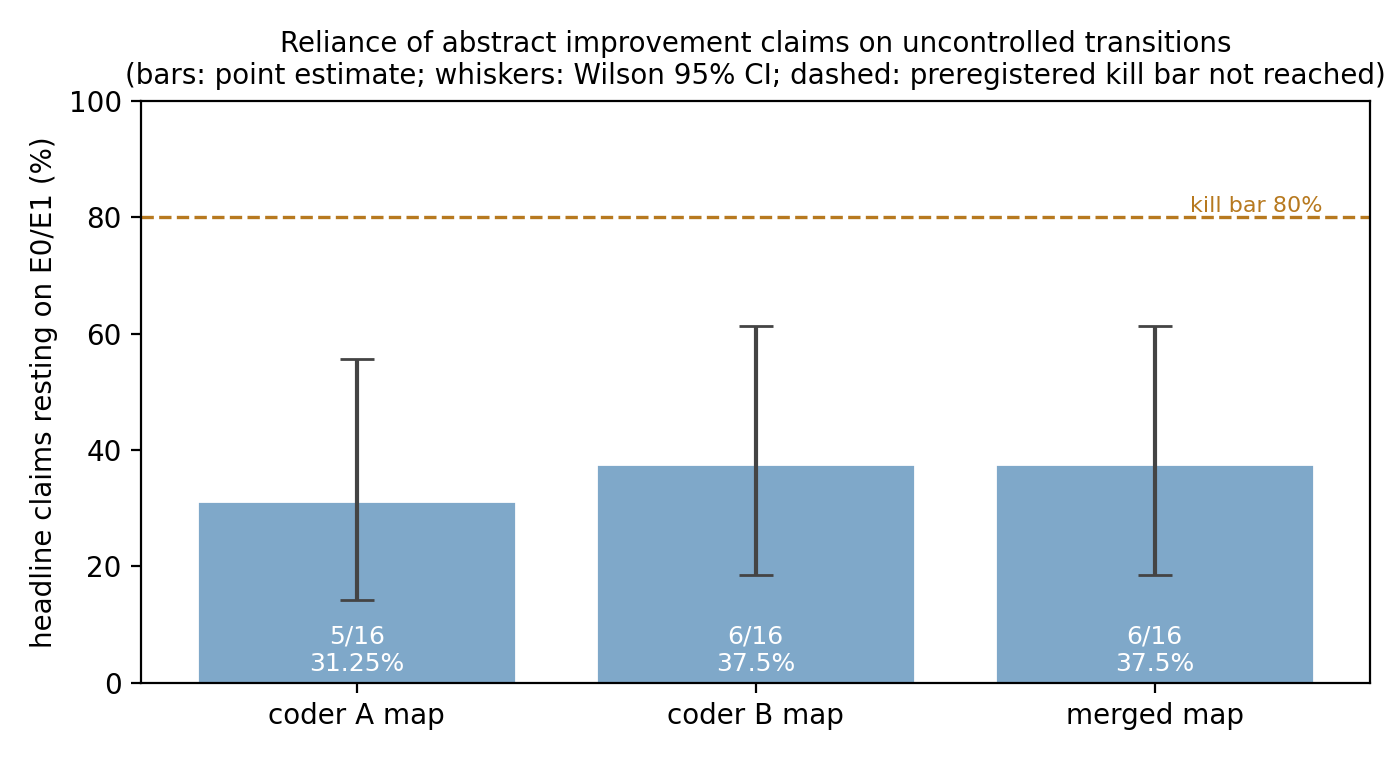
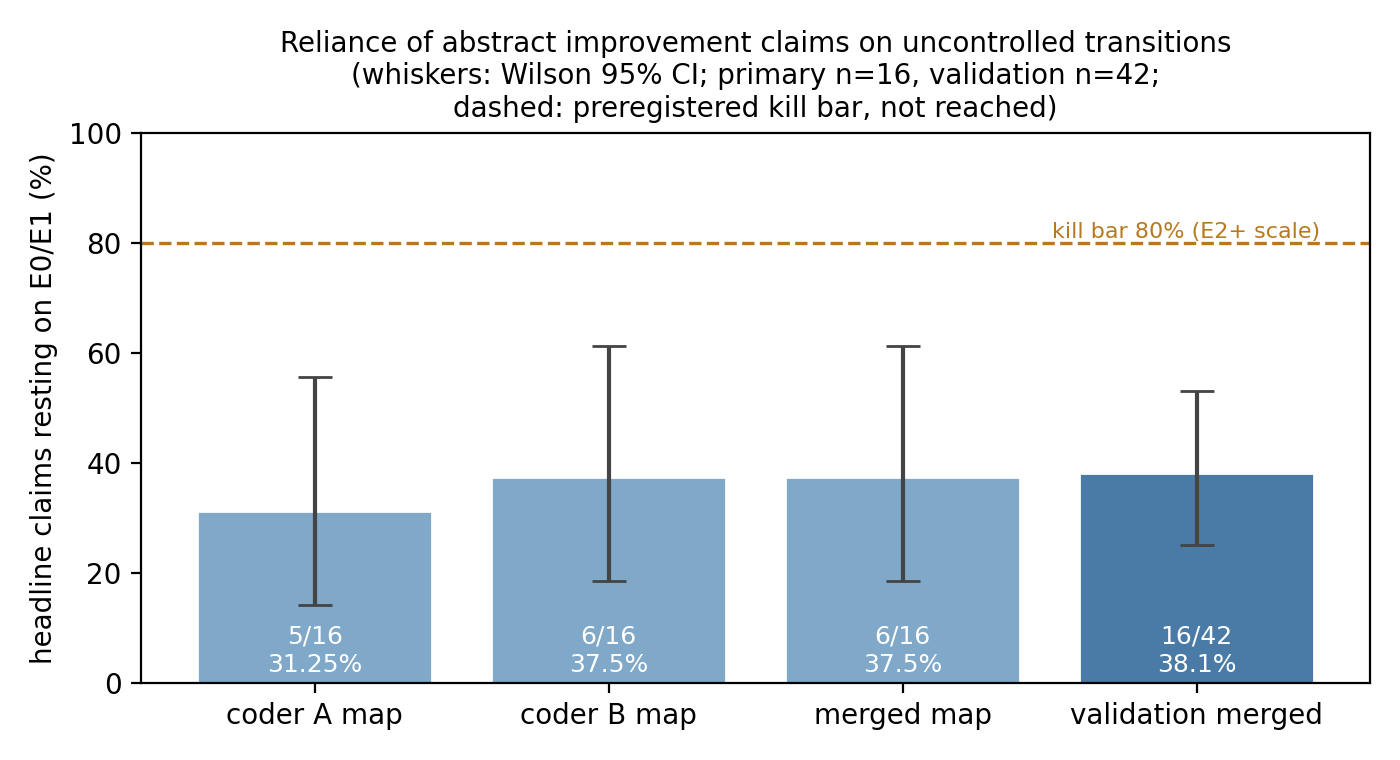
Manuscript finishing: abstract carries validation (146/150 words), fig3 gains validation panel (visual gate PASS after title/precision fixes), fig3 legend n=16/42, stat audit dated amendment, SI Note 3 instrument-chain provenance table filled; checker PASS

diff --git a/field_audit/make_figures.py b/field_audit/make_figures.py
@@ -70,18 +70,23 @@ kA = sum(1 for c, t in _HA.items() if _EA[(c, t)]["in_paper_grade"] in ("E0", "E
 kB = sum(1 for c, t in _HB.items() if _EB[(c, t)]["in_paper_grade"] in ("E0", "E1"))
 _EM = {(r["claim_id"], r["transition"]): r for r in merged}
 kM = sum(1 for c, t in head.items() if _EM[(c, t)]["in_paper_grade"] in ("E0", "E1"))
-ks = [kA, kB, kM]
-vals = [100 * k / 16 for k in ks]
-labels = ["coder A map", "coder B map", "merged map"]
-lohi = [_wilson(k, 16) for k in ks]
+_val = json.load(open(ROOT / "CODING_sheets_validation/statistics_validation_20261025.json"))
+kV, nV = _val["headline_e0_e1"], _val["n_claims"]
+ks = [kA, kB, kM, kV]
+ns = [16, 16, 16, nV]
+vals = [100 * k / n for k, n in zip(ks, ns)]
+labels = ["coder A map", "coder B map", "merged map", "validation merged"]
+lohi = [_wilson(k, n) for k, n in zip(ks, ns)]
 err = [[v - lo for v, (lo, hi) in zip(vals, lohi)], [hi - v for v, (lo, hi) in zip(vals, lohi)]]
-ax.bar(labels, vals, color="#7fa8c9", edgecolor="white", yerr=err, capsize=6, error_kw={"ecolor": "#444"})
+ax.bar(labels, vals, color=["#7fa8c9", "#7fa8c9", "#7fa8c9", "#4a7ba6"], edgecolor="white", yerr=err, capsize=6, error_kw={"ecolor": "#444"})
+def _pct(v):
+    return f"{v:.2f}".rstrip("0").rstrip(".")
 for i, v in enumerate(vals):
-    ax.text(i, 2, f"{ks[i]}/16\n{v:g}%", ha="center", fontsize=9, color="white")
+    ax.text(i, 2, f"{ks[i]}/{ns[i]}\n{_pct(v)}%", ha="center", fontsize=9, color="white")
 ax.axhline(80, color="#b7791f", ls="--", lw=1.2)
-ax.text(2.42, 81, "kill bar 80%", fontsize=8, color="#b7791f", ha="right")
+ax.text(3.42, 81, "kill bar 80% (E2+ scale)", fontsize=8, color="#b7791f", ha="right")
 ax.set_ylabel("headline claims resting on E0/E1 (%)"); ax.set_ylim(0, 100)
-ax.set_title("Reliance of abstract improvement claims on uncontrolled transitions\n(bars: point estimate; whiskers: Wilson 95% CI; dashed: preregistered kill bar not reached)", fontsize=10)
+ax.set_title("Reliance of abstract improvement claims on uncontrolled transitions\n(whiskers: Wilson 95% CI; primary n=16, validation n=42;\ndashed: preregistered kill bar, not reached)", fontsize=10)
 fig.tight_layout(); fig.savefig(OUT / "fig3_headline.png", dpi=200); plt.close(fig)
 
 # Fig 4 - reportability by item

diff --git a/field_audit/MANUSCRIPT/ANALYSIS_DRAFT.md b/field_audit/MANUSCRIPT/ANALYSIS_DRAFT.md
@@ -10,20 +10,20 @@ draft scaffolding and is removed in the submission build (Article: Introduction 
 Figures are specified with their numbers below; production follows the figure contracts. Author
 list, affiliations and correspondence: owner-side.
 
-## Abstract (145 words)
+## Abstract (146 words)
 
 Evidence audits of biological-to-artificial intelligence transfer have concentrated on utility;
-the mechanistic pedigree of a design choice is usually accepted as stated. We decompose a frozen,
-hash-pinned corpus of 16 arXiv-declared mechanism claims into a five-transition inference chain
-and grade, transition by transition, what controlled evidence each paper itself supplies. No
-claim evidences its structure-to-computation transition in-paper (16/16 E0): the biological
-foundation is delegated by citation. The computation-to-correspondence transition - the content
-that makes a system "brain-inspired" - carries suggestive-only support in 12 of 16 claims and
-controlled support in just 2, while utility comparisons are where controlled evidence concentrates (10/16). A
-preregistered kill rule (80 percent controlled headline evidence) was not triggered (62.5
-percent, 95 percent CI 39-82). We deliver an item-level, dual-coded reporting standard for the
-uncontrolled middle of the chain. The corpus is a first-query candidate sample; no prevalence
-claim is made.
+the mechanistic pedigree of a design choice is usually accepted as stated. We decompose frozen,
+hash-pinned corpora of arXiv-declared mechanism claims - 16 primary and 42 validation - into a
+five-transition inference chain and grade, transition by transition, what controlled evidence each
+paper itself supplies. No claim evidences its structure-to-computation transition in-paper (16/16
+and 42/42 E0): the biological foundation is delegated by citation. The computation-to-correspondence
+transition - the content that makes a system "brain-inspired" - carries mostly suggestive-only
+support, while utility comparisons concentrate the controlled evidence. A preregistered kill rule
+(80 percent controlled headline evidence) was not triggered: 62.5 percent (primary) and 61.9
+percent (validation) of claims carry controlled headline evidence. We deliver an item-level,
+dual-coded reporting standard for the uncontrolled middle of the chain. The corpora are
+first-query candidate samples; no prevalence claim is made.
 
 ## Introduction (drafted; number-free by construction)
 
@@ -261,10 +261,12 @@ transition; unit: the claim) whose in-paper evidence grade is E2. T1 (grey) is z
 delegation finding, not by sampling; no interval or test applies.
 
 **Fig 3 | Headline reliance, with uncertainty.** Point estimates of the share of claims whose
-abstract improvement claim rests on an E0/E1 transition (unit: the claim; n = 16 per map: coder
-A's own map, coder B's own map, and the merged map), with two-sided Wilson score 95 percent
-intervals as whiskers. The dashed line is the preregistered kill-rule threshold (80 percent), a
-decision rule, not a significance threshold. No p value is computed anywhere in the figure.
+abstract improvement claim rests on an E0/E1 transition (unit: the claim; n = 16 per map for the
+first three bars - coder A's own map, coder B's own map, and the merged map - and n = 42 for the
+fourth bar, the validation corpus's merged map under the same frozen resolution rule), with
+two-sided Wilson score 95 percent intervals as whiskers. The dashed line is the preregistered
+kill-rule threshold (80 percent, on the complementary E2+ scale), a decision rule, not a
+significance threshold. No p value is computed anywhere in the figure.
 
 **Fig 4 | Reportability by item.** Counts of claims (n = 16 per item; unit: the claim) with
 complete reporting for each of the 11 items, after preregistered adjudication. By protocol no

diff --git a/field_audit/MANUSCRIPT/SUPPLEMENTARY_DRAFT.md b/field_audit/MANUSCRIPT/SUPPLEMENTARY_DRAFT.md
@@ -50,8 +50,30 @@ demonstration, not as evidence about the field.
 
 ## SI Note 3: instrument chain (provenance)
 
-[Slot: the full commit/artifact chain - frozen protocol, dated amendments, binding records with hashes,
-review records, the recompute STEPS - one table for the reproducibility statement.]
+Every stage below names its governing document and its frozen anchor; all anchors are committed in
+the article's repository, and every Results number is recomputed by the listed script from these
+artifacts alone.
+
+| stage | governing document | frozen anchor |
+| --- | --- | --- |
+| Preregistration (taxonomy T1-T5, grades E0-E4, kill rule 80 pct) | `AUDIT_PREREGISTRATION_v1_FROZEN.md` | frozen 2026-10-19, unedited |
+| Data-source amendment (arXiv; ranking consequences stated) | `AMENDMENT_20261019_ARXIV_DATA_SOURCE.md` | dated amendment |
+| Pinned query snapshot | `corpus_draw_arxiv_v1.snapshot.jsonl` | sha256 `e73f72f5...3aee`, 3,246 records |
+| Primary corpus freeze (18-draw -> 16 after eligibility) | `corpus_draw_arxiv_v1.csv`; `ELIGIBILITY_SECOND_REVIEW_20261024.md` | commit `874797f`; second review 2026-10-24 |
+| Reportability amendment (evidence vs reporting separated) | `OWNER_AMENDMENT_REPORTABILITY_2026-10-20.md` | owner-approved 2026-10-20 |
+| Coder conventions (COND-1 no aggregation, COND-2 cross-tab caveat, COND-3 chain citations = PARTIAL) | `METHODS_CONDITIONS_RECORDED_20261024.md` | recorded pre-coding 2026-10-24 |
+| Scorer binding (v3; refuses incomplete grids, unregistered sources, hash mismatches) | `BINDING_RECORD_V3_20261024.md` (scorer sha256 `b7fa04ab...6455e`; checks `c094856b...9829c`; registry digest `77dcda1a...db6e`) | owner-approved "B1-B4" 2026-10-24 |
+| Independent scorer review | `REPORTABILITY_V3_INDEPENDENT_REVIEW_20261023.md` | BINDING-READY with 4 conditions, all closed |
+| Primary-corpus coding artifacts | `CODING_sheets_v2/` (coder sheets, correction ledger C-1/C-2/C-3, adjudication 39 rows, merge) | commit `f4c16e2` |
+| Primary-corpus statistics | `CODING_sheets_v2/statistics_final_20261024.json` (+ dated erratum on the per-sheet headline inversion) | `CODING_FINAL_RESULTS_20261024.md` |
+| Validation rule (drawn 2026-10-23, scope-corrected 2026-10-25) | `VALIDATION_CORPUS_RULE_20261023.md`; `VALIDATION_RESUMPTION_20261025.md` (v1 draw superseded before coding) | commits `144c41e`, `21eb404` |
+| Validation corpus (N = 42) + pinning | `corpus_validation_v2_adjudicated.csv`; `pinned_validation_20261025/` manifests (42 PDF + text sha256 pairs, re-hash verified) | acceptance amendment 2026-10-25 (owner option a) |
+| Validation coding + statistics | `CODING_sheets_validation/` (two 210-row coder sheets, headline maps, `statistics_validation_20261025.json`) | commit `136ec7f` |
+| Recompute path (reproducibility statement) | `fill_results_numbers.py` (manuscript numbers), `compute_validation_statistics_20261025.py --selftest`, `make_figures.py`, `nmi_format_check.py --selftest` | one command each, all committed |
+
+Chain-citation discipline: this table names documents, not facts - every number in the main text is
+produced by the recompute path from the pinned artifacts, and any discrepancy between the two would
+fail the format checker's frozen-number cross-checks before submission.
 
 ## SI Note 4: pilot-corpus specificity verification of delegated foundations (11/14 specific)
 

diff --git a/field_audit/NATURE_FLAGSHIP_STAT_AUDIT_2026-10-25.md b/field_audit/NATURE_FLAGSHIP_STAT_AUDIT_2026-10-25.md
@@ -56,3 +56,13 @@ This audit was executed by the lead against the skill's checklist text as cloned
 The skill itself warns not to claim editor decisions; that boundary is kept. The earlier
 Analysis-format pass (`nmi_format_check.py`, PASS) remains valid for the Analysis-type venue;
 the two audits are complementary, not redundant.
+
+## Dated amendment 2026-10-25 (validation panel added to Fig 3)
+
+Fig 3 gains a fourth bar (validation corpus, n = 42, merged map under the frozen weaker-evidence
+rule, Wilson 95 percent CI as whiskers; point 38.1 percent E0/E1, complement of 61.9 percent E2+).
+Panel statistics for the amended figure: unit = the claim; n = 16 (three primary-corpus bars) and
+n = 42 (validation bar), stated in the legend; interval = two-sided Wilson score 95 percent;
+no test, no p value (unchanged). Regenerated by make_figures.py from
+CODING_sheets_validation/statistics_validation_20261025.json; visual gate PASS on re-render
+(title clipping and float-precision label fixed). All other panels unchanged.
